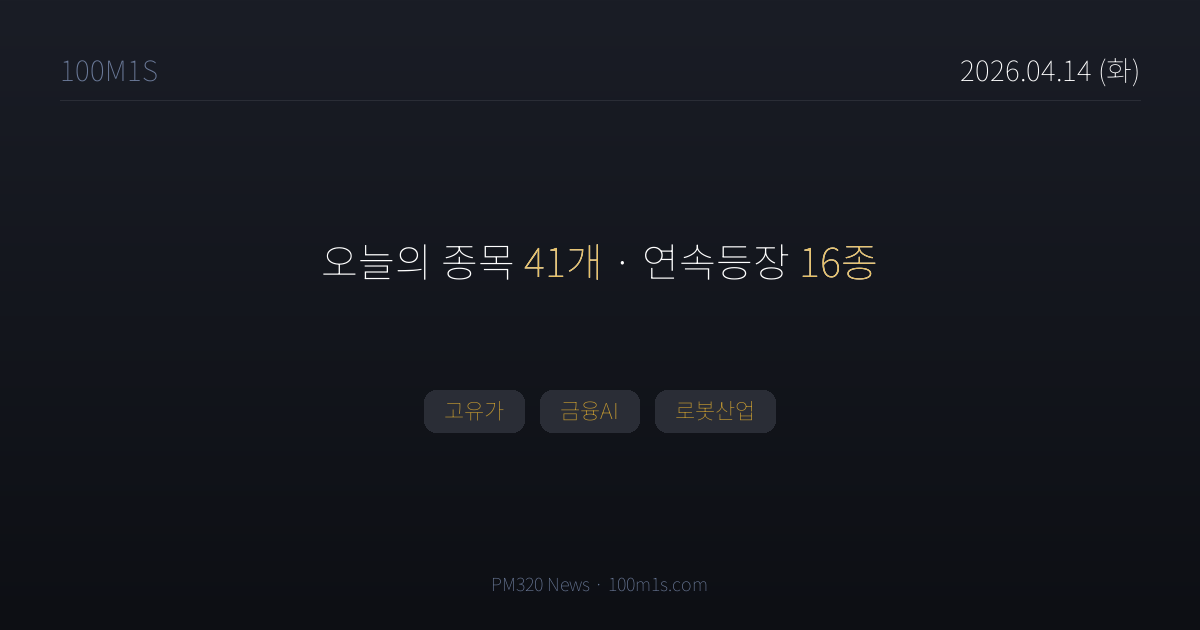
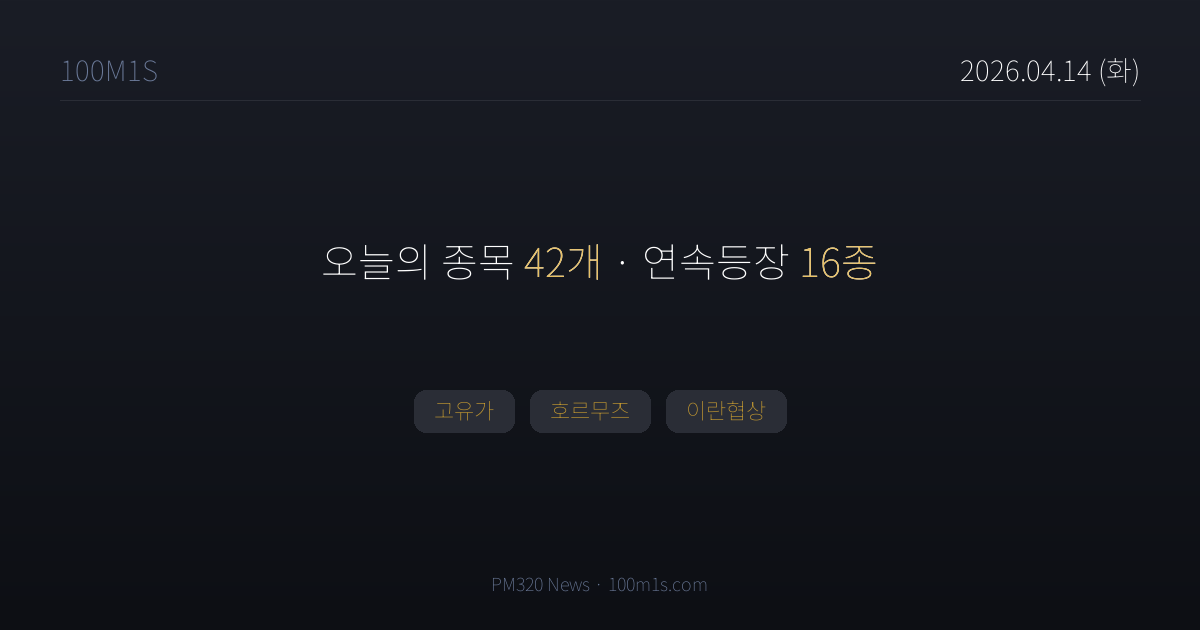
chore(news): 2026-04-14T19:24 pipeline

Changed region(s): [[0.3392, 0.6032, 0.6783, 0.6937], [0.4625, 0.3921, 0.4933, 0.4222]]

diff --git a/news/2026-04-14.html b/news/2026-04-14.html
@@ -3,8 +3,8 @@
 <head>
 <meta charset="UTF-8">
 <title>4월 14일 (화) 뉴스 — 100M1S</title>
-<meta property="og:title" content="4월 14일 (화) · 종목 41개">
-<meta property="og:description" content="고유가, 금융AI, 로봇산업">
+<meta property="og:title" content="4월 14일 (화) · 종목 42개">
+<meta property="og:description" content="고유가, 호르무즈, 이란협상">
 <meta property="og:image" content="https://100m1s.com/og/2026-04-14.png">
 <meta property="og:image:width" content="1200">
 <meta property="og:image:height" content="630">
